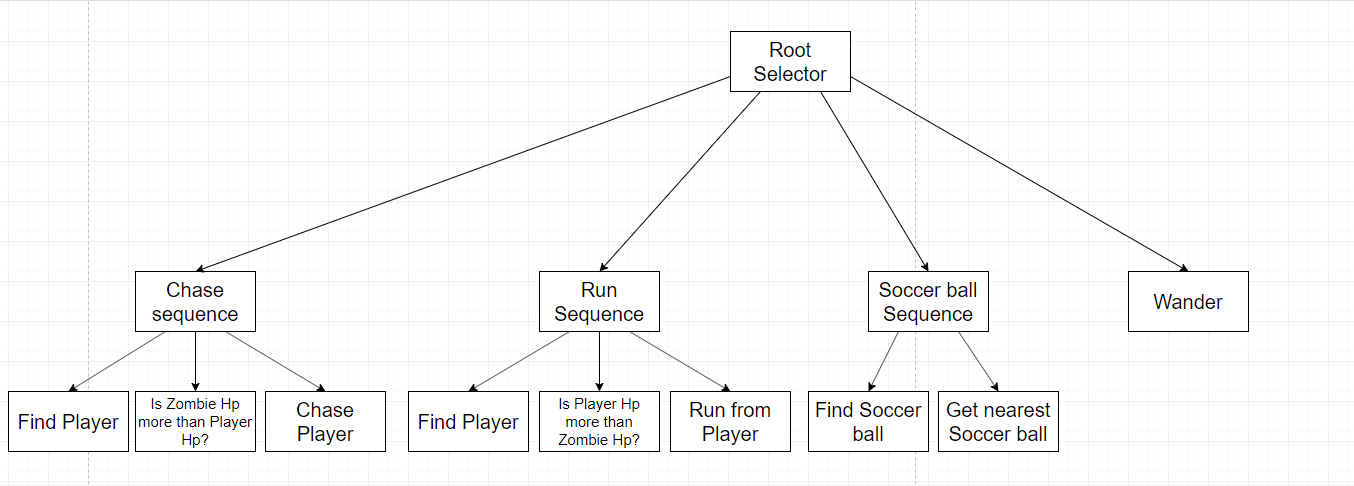
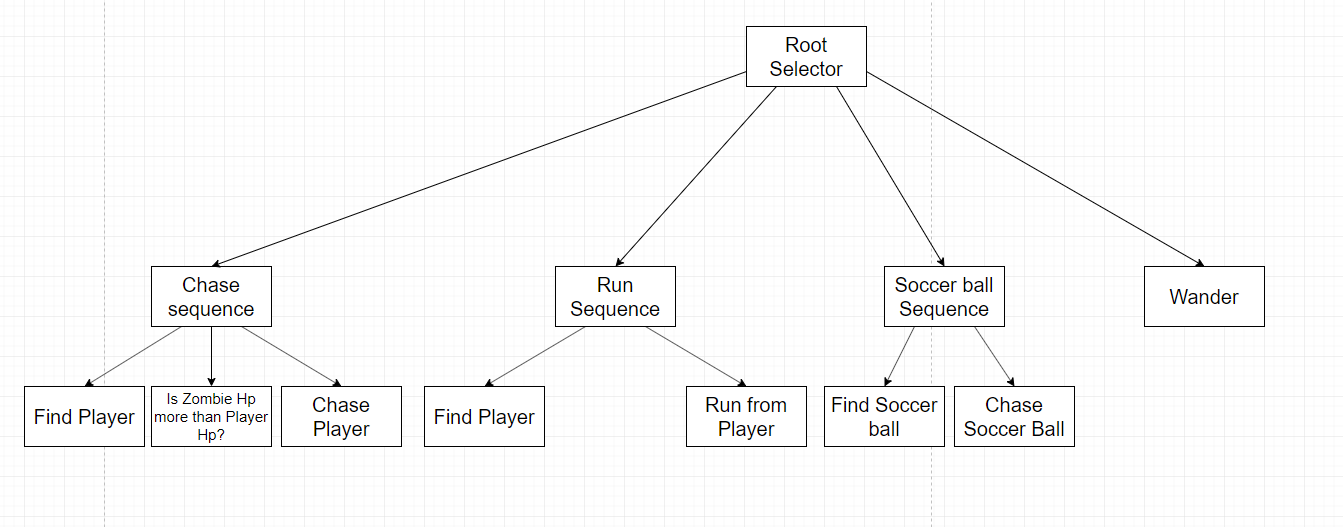
Drill-12 최종 완성
커밋 횟수 : 2회
2018180002 강현석
https://youtu.be/cF95C_DOA2U

diff --git a/Drill-12/zombie.py b/Drill-12/zombie.py
@@ -39,8 +39,11 @@ class Zombie:
         self.patrol_order = 1
         self.target_x, self.target_y = None, None
         self.x, self.y = self.patrol_positions[0]
+        self.hp = 0
+        self.min_distance_soccer = 10000000
 
         self.load_images()
+        self.font = load_font('ENCR10B.TTF', 16)
         self.dir = random.random()*2*math.pi # random moving direction
         self.speed = 0
         self.timer = 1.0 # change direction every 1 sec when wandering
@@ -67,8 +70,28 @@ class Zombie:
     def find_player(self):
         boy = main_state.get_boy()
         distance = (boy.x - self.x)**2 + (boy.y - self.y)**2
-        if distance < (PIXEL_PER_METER * 10)**2:
+        if distance < (PIXEL_PER_METER * 8)**2:
             self.dir = math.atan2(boy.y - self.y, boy.x - self.x)
+            return BehaviorTree.SUCCESS
+        else:
+            self.speed = 0
+            return BehaviorTree.FAIL
+
+    def find_soccer_ball(self):
+        balls = main_state.get_balls()
+        min_ball_x = 0
+        min_ball_y = 0
+        for ball in balls:
+            distance = (ball.x - self.x)**2 + (ball.y - self.y)**2
+            if distance < (PIXEL_PER_METER * 5)**2:
+                if distance < self.min_distance_soccer:
+                    print("축구공 찾음")
+                    self.min_distance_soccer = distance
+                    min_ball_x = ball.x
+                    min_ball_y = ball.y
+
+        if not self.min_distance_soccer == 10000000:
+            self.dir = math.atan2(min_ball_y - self.y, min_ball_x - self.x)
             return BehaviorTree.SUCCESS
         else:
             self.speed = 0
@@ -76,6 +99,17 @@ class Zombie:
 
     def move_to_player(self):
         self.speed = RUN_SPEED_PPS
+        self.calculate_current_position()
+        return BehaviorTree.SUCCESS
+
+    def move_to_soccer_ball(self):
+        self.speed = RUN_SPEED_PPS
+        self.calculate_current_position()
+        return BehaviorTree.SUCCESS
+
+    def move_from_player(self):
+        self.speed = RUN_SPEED_PPS
+        self.dir = self.dir + 180
         self.calculate_current_position()
         return BehaviorTree.SUCCESS
 
@@ -97,21 +131,46 @@ class Zombie:
         else:
             return BehaviorTree.RUNNING
 
+    def comp_player_zombie(self):
+        boy = main_state.get_boy()
+        if boy.hp >= self.hp:
+            print("보이가 큼")
+            self.speed = 0
+            return BehaviorTree.FAIL
+        else:
+            print("좀비가 큼")
+            return BehaviorTree.SUCCESS
+
     def build_behavior_tree(self):
         wander_node = LeafNode("Wander", self.wander)
         find_player_node = LeafNode("Find Player", self.find_player)
+        comp_hp_node = LeafNode("Is Zombie HP more than Player", self.comp_player_zombie)
         move_to_player_node = LeafNode("Move to Player", self.move_to_player)
         chase_node = SequenceNode("Chase")
-        chase_node.add_children(find_player_node, move_to_player_node)
-        wander_chase_node = SelectorNode("WanderChase")
-        wander_chase_node.add_children(chase_node, wander_node)
-        self.bt = BehaviorTree(wander_chase_node)
+        chase_node.add_children(find_player_node, comp_hp_node, move_to_player_node)
+        move_from_player_node = LeafNode("Move from Player", self.move_from_player)
+        run_from_player_node = SequenceNode("Run from Player")
+        run_from_player_node.add_children(find_player_node, move_from_player_node)
+        find_soccer_ball_node = LeafNode("Find Soccer Ball", self.find_soccer_ball)
+        move_to_soccer_ball_node = LeafNode("Move to Soccer Ball", self.move_to_soccer_ball)
+        soccer_ball_chase_node = SequenceNode("Soccer Ball")
+        soccer_ball_chase_node.add_children(find_soccer_ball_node, move_to_soccer_ball_node)
+        root_node = SelectorNode("RootNode")
+        root_node.add_children(chase_node, run_from_player_node, soccer_ball_chase_node, wander_node)
+        self.bt = BehaviorTree(root_node)
 
 
 
 
     def get_bb(self):
         return self.x - 50, self.y - 50, self.x + 50, self.y + 50
+
+    def plus_hp(self):
+        self.hp += 100
+        self.min_distance_soccer = 10000000
+
+    def get_hp(self):
+        return self.hp
 
     def update(self):
         self.bt.run()
@@ -128,6 +187,9 @@ class Zombie:
                 Zombie.images['Idle'][int(self.frame)].draw(self.x, self.y, 100, 100)
             else:
                 Zombie.images['Walk'][int(self.frame)].draw(self.x, self.y, 100, 100)
+
+        draw_rectangle(*self.get_bb())
+        self.font.draw(self.x - 60, self.y + 50, '(hp : %d)' % self.hp, (255, 255, 0))
 
     def handle_event(self, event):
         pass

diff --git a/Drill-12/main_state.py b/Drill-12/main_state.py
@@ -9,6 +9,7 @@ import game_world
 from boy import Boy
 from ground import Ground
 from zombie import Zombie
+from ball import Ball
 
 
 name = "MainState"
@@ -34,6 +35,8 @@ def collide(a, b):
 def get_boy():
     return boy
 
+def get_balls():
+    return balls
 
 def enter():
     global boy
@@ -43,6 +46,11 @@ def enter():
     global zombie
     zombie = Zombie()
     game_world.add_object(zombie, 1)
+
+    global balls
+    balls = [Ball() for i in range(20)]
+    for ball in balls:
+        game_world.add_object(ball, 1)
 
     ground = Ground()
     game_world.add_object(ground, 0)
@@ -72,6 +80,21 @@ def handle_events():
 def update():
     for game_object in game_world.all_objects():
         game_object.update()
+    for ball in balls:
+        if collide(boy, ball):
+            balls.remove(ball)
+            game_world.remove_object(ball)
+            boy.plus_hp()
+
+        if collide(zombie, ball):
+            balls.remove(ball)
+            game_world.remove_object(ball)
+            zombie.plus_hp()
+    if collide(boy, zombie):
+        if zombie.get_hp() > boy.get_hp():
+            game_framework.quit()
+        else:
+            game_world.remove_object(zombie)
 
 
 def draw():

diff --git a/Drill-12/boy.py b/Drill-12/boy.py
@@ -114,6 +114,7 @@ class Boy:
         self.event_que = []
         self.cur_state = WalkingState
         self.cur_state.enter(self, None)
+        self.hp = 0
 
     def get_bb(self):
         # fill here
@@ -133,7 +134,7 @@ class Boy:
 
     def draw(self):
         self.cur_state.draw(self)
-        self.font.draw(self.x - 60, self.y + 50, '(Time: %3.2f)' % get_time(), (255, 255, 0))
+        self.font.draw(self.x - 60, self.y + 50, '(hp : %d)' % self.hp, (255, 255, 0))
         #fill here
         draw_rectangle(*self.get_bb())
         #debug_print('Velocity :' + str(self.velocity) + '  Dir:' + str(self.dir) + ' Frame Time:' + str(game_framework.frame_time))
@@ -142,4 +143,10 @@ class Boy:
         if (event.type, event.key) in key_event_table:
             key_event = key_event_table[(event.type, event.key)]
             self.add_event(key_event)
+
+    def plus_hp(self):
+        self.hp += 100
+
+    def get_hp(self):
+        return self.hp
 

diff --git a/Drill-12/ball.py b/Drill-12/ball.py
@@ -1,0 +1,22 @@
+import random
+from pico2d import *
+import game_world
+import game_framework
+
+class Ball:
+    image = None
+
+    def __init__(self):
+        if Ball.image == None:
+            Ball.image = load_image('ball21x21.png')
+        self.x, self.y = random.randint(0, 1280-1), random.randint(100, 800)
+
+    def get_bb(self):
+       return self.x - 10, self.y - 10, self.x + 10, self.y + 10
+
+    def draw(self):
+        self.image.draw(self.x, self.y)
+        draw_rectangle(*self.get_bb())
+
+    def update(self):
+        pass
